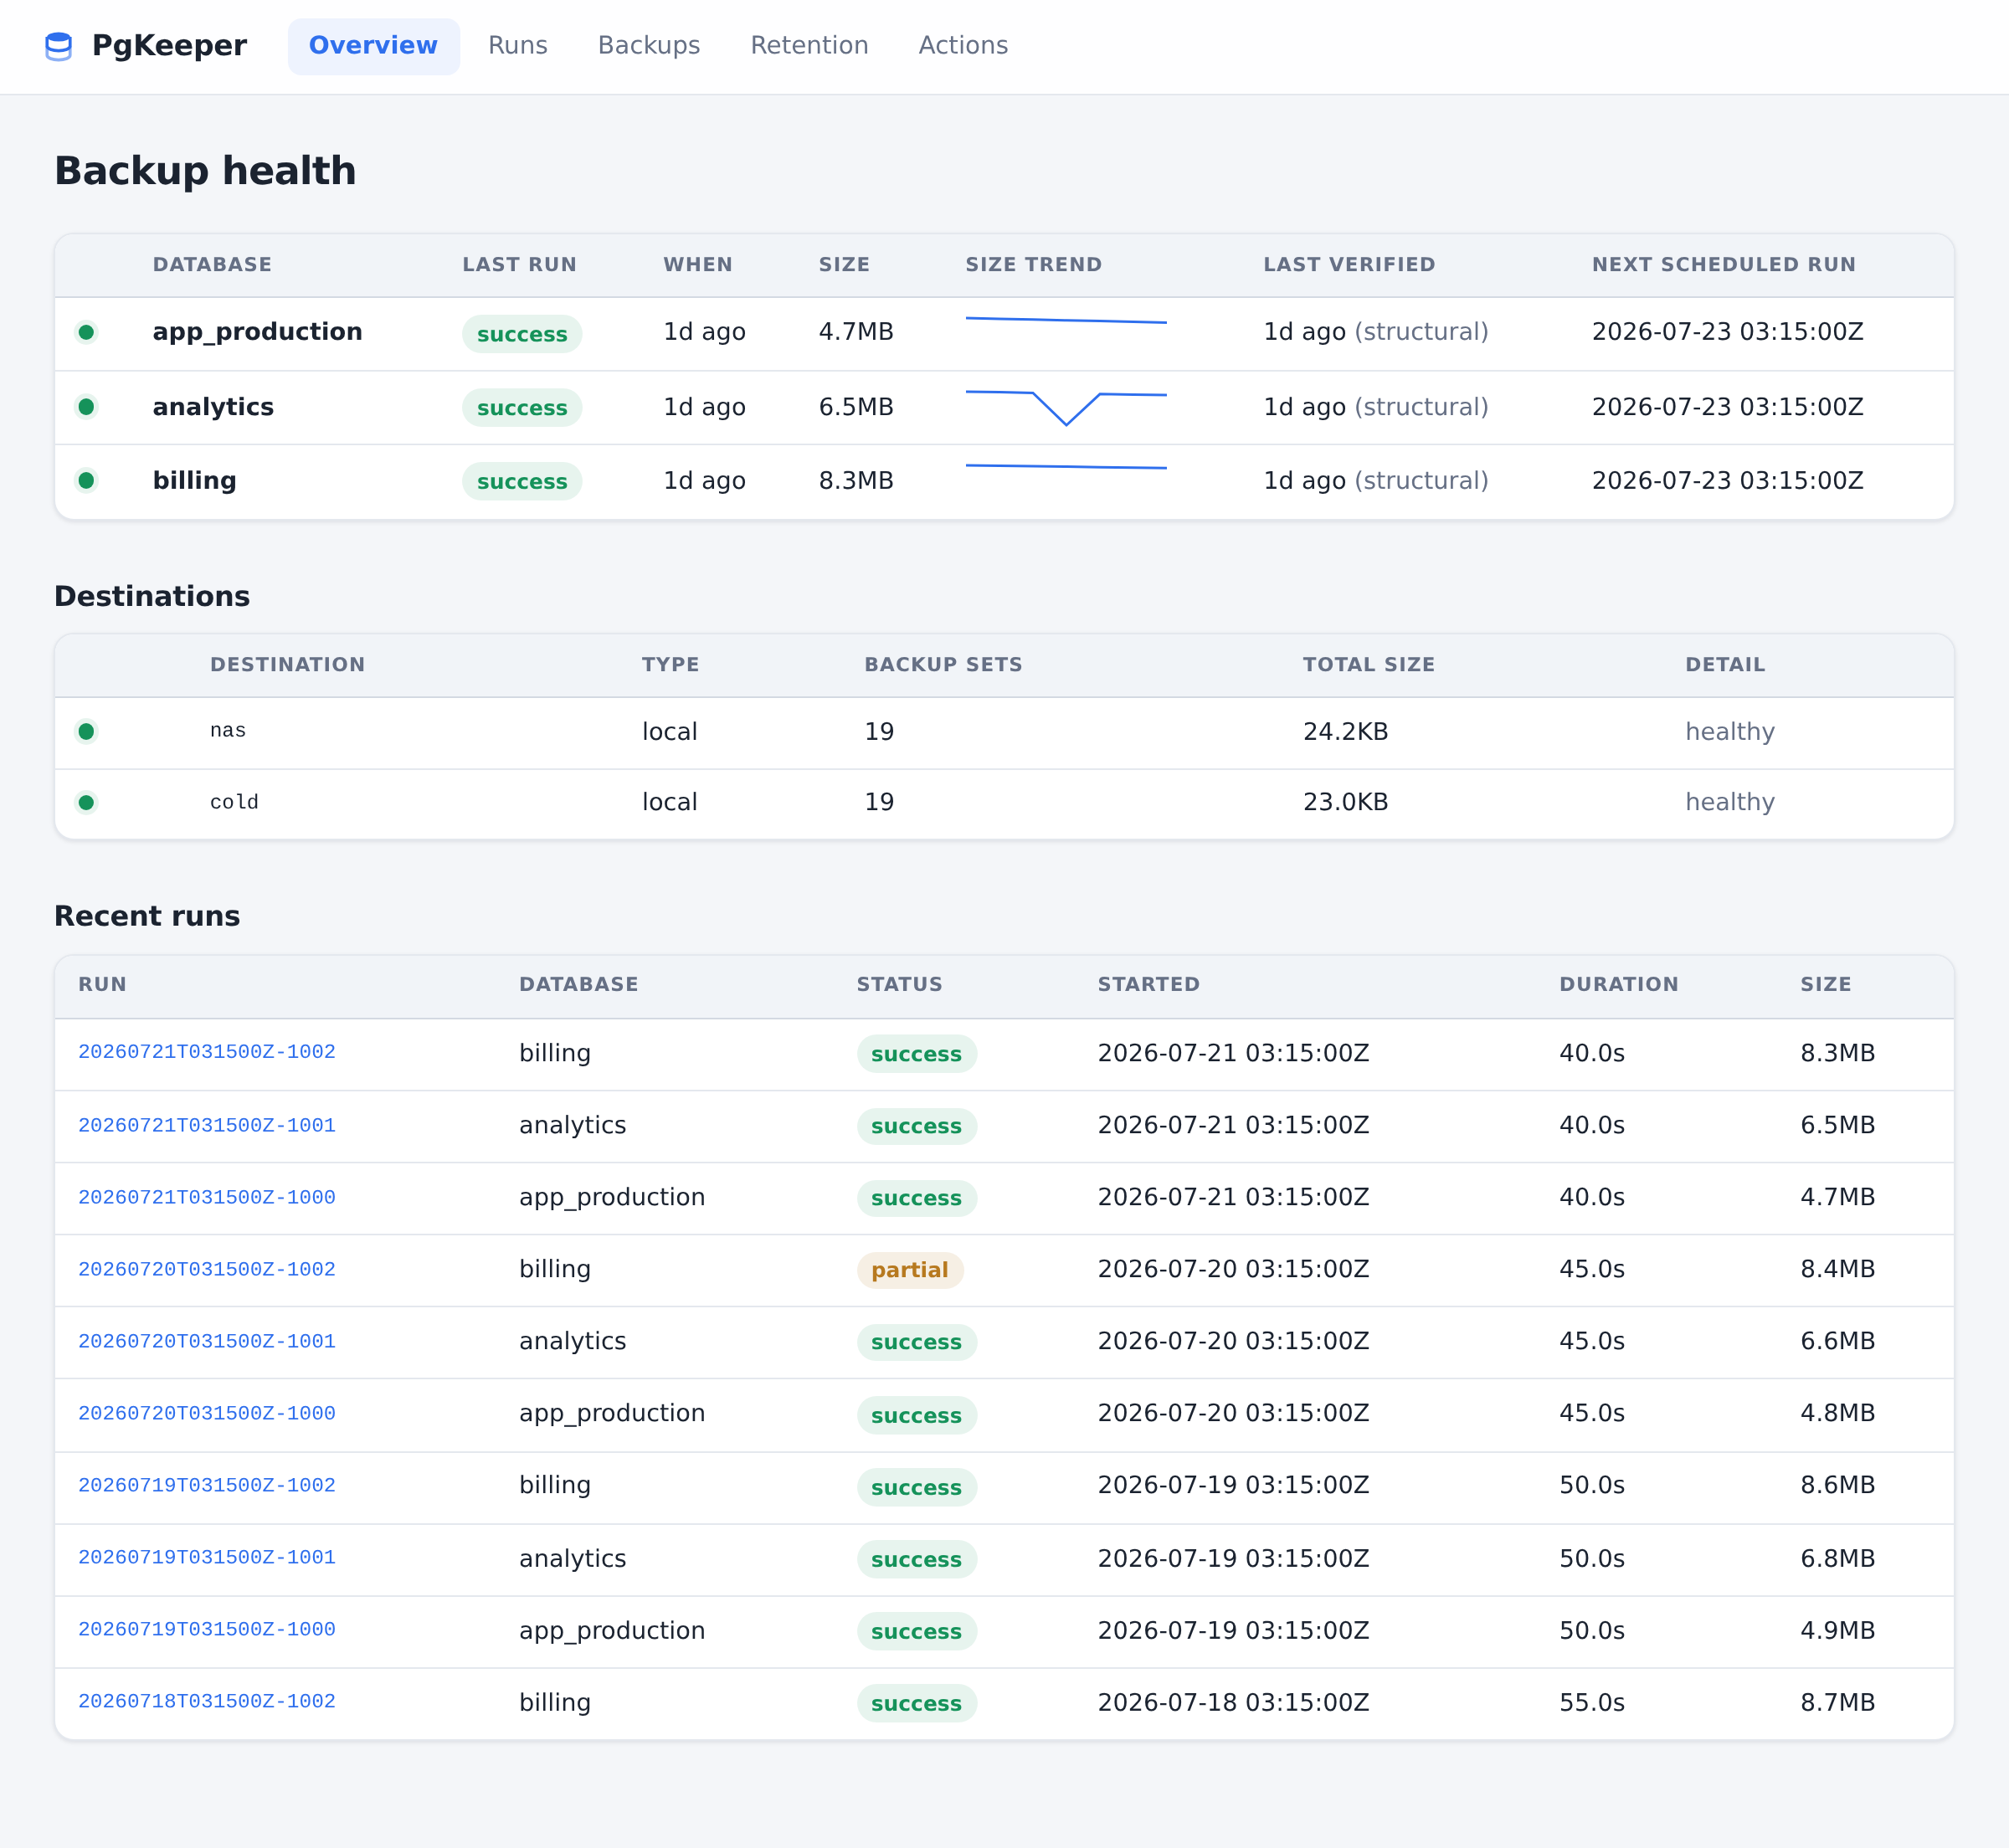
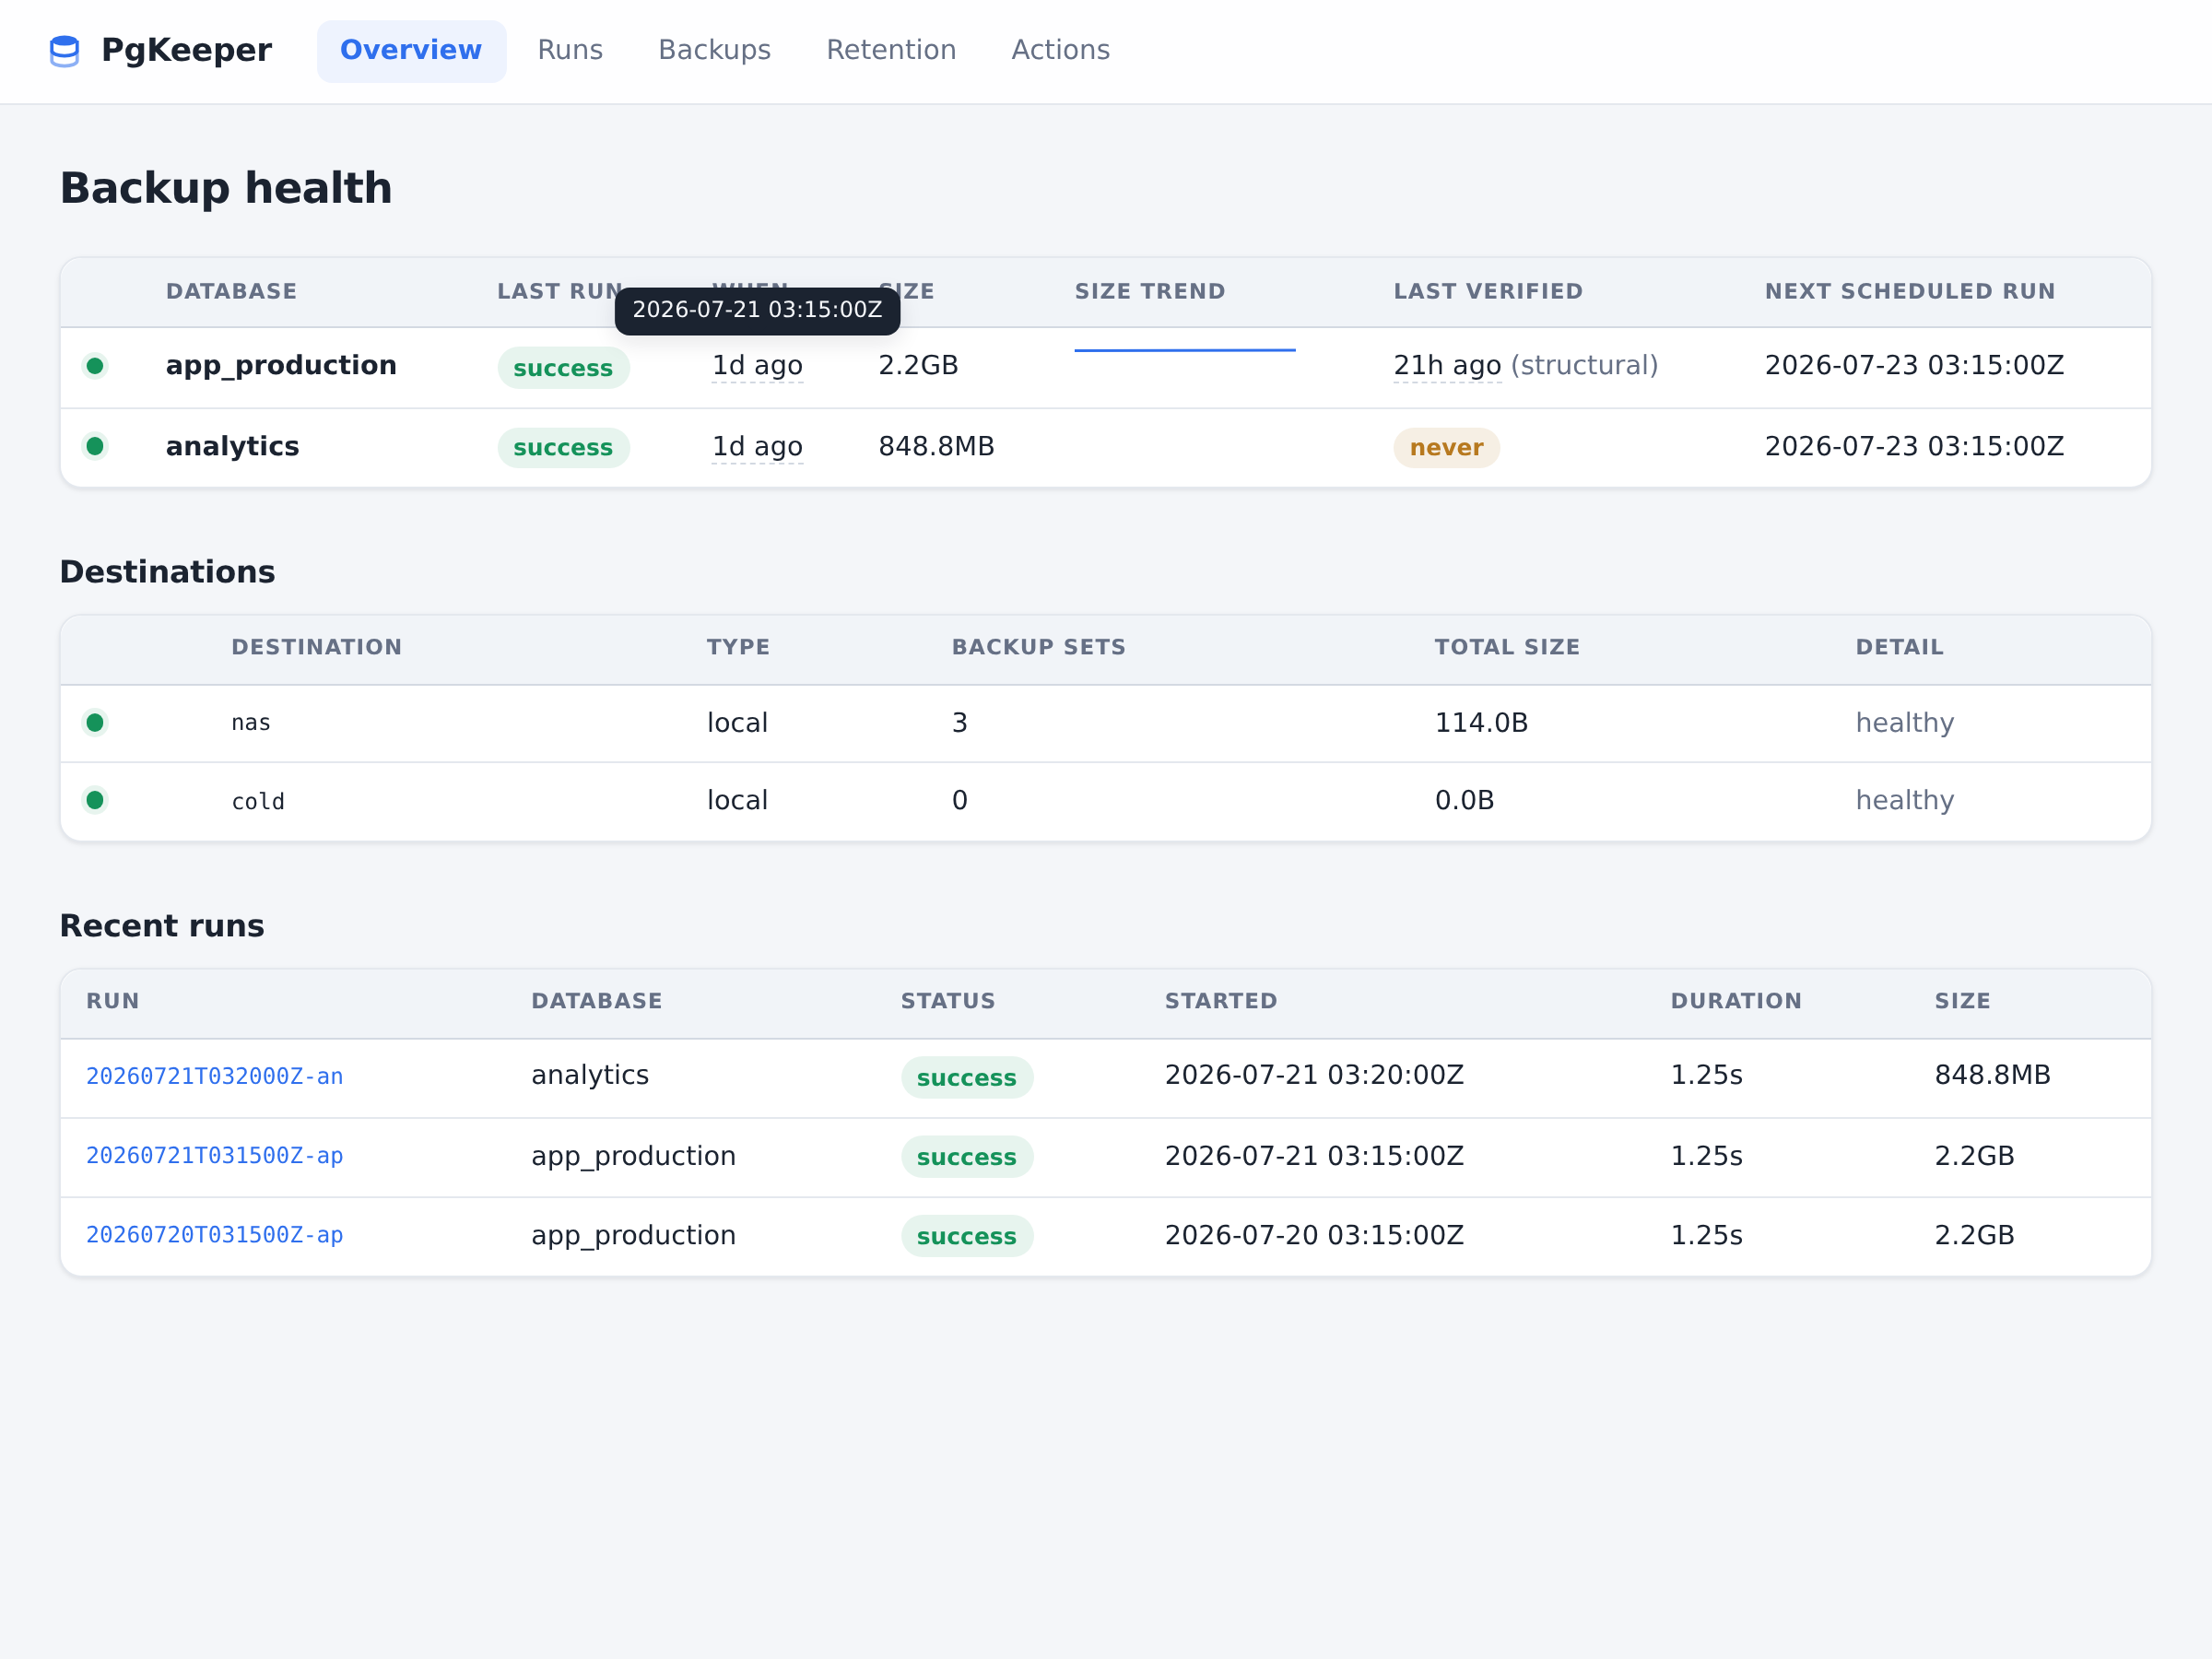
Brand the dashboard notices and tooltips consistently
Unify every status message behind one branded notice component and replace the
bare OS tooltips with styled popovers, so the dashboard reads as one system.

Notices: a new notice() helper renders a banner with a severity icon, a tinted
surface, and a left accent, in ok/warn/bad/info variants. The actions-page
flash now uses it — colored by a flash_kind() heuristic and carrying a
no-JavaScript dismiss link that just drops the ?msg param — and the
retention "nothing to prune" and backups destination-error notes render from
the same family instead of ad-hoc p.ok / p.bad banners.

Tooltips: a tip() helper plus a .tip component turn the native title=""
hints into styled, keyboard-reachable popovers (hover or focus, with an
aria-label for screen readers) showing the exact timestamp. Applied to the
overview, runs, and backups time cells and to the status light_dot, which now
carries a meaningful label ("Healthy" / "Needs attention" / ...). Tables round
their own corner cells instead of clipping with overflow:hidden, so a tooltip
is never sheared off at a table edge.

All new motion (notice entrance, tooltip fade, page rise) is gated behind
prefers-reduced-motion. Templates are now read as UTF-8 explicitly in
render_erb, so the non-ASCII glyphs compile correctly under a non-UTF-8 locale
(a latent bug the notice strings surfaced).

Regenerate the actions/overview/retention screenshots from the real pages.

Claude-Session: https://claude.ai/code/session_0124yNZtG2YxE3WAnDNyAuAZ

diff --git a/lib/pgkeeper/web/view_helpers.rb b/lib/pgkeeper/web/view_helpers.rb
@@ -54,9 +54,70 @@ module PgKeeper
         "?"
       end
 
-      # A colored status dot with an accessible label.
-      def light_dot(color)
-        %(<span class="dot dot-#{h(color)}" title="#{h(color)}"></span>)
+      # Default human labels for a traffic-light color, shown in the dot's
+      # tooltip so hovering explains what the color means.
+      LIGHT_LABELS = { "green" => "Healthy", "yellow" => "Needs attention", "red" => "Failing" }.freeze
+
+      # A colored status dot with a branded tooltip. +label+ overrides the
+      # default word for the color.
+      def light_dot(color, label = nil)
+        text = label || LIGHT_LABELS.fetch(color.to_s, color.to_s)
+        tip(%(<span class="dot dot-#{h(color)}"></span>), text)
+      end
+
+      # Wrap +inner+ (already-safe HTML) in a branded tooltip trigger showing
+      # +hint+ on hover/focus. Returns +inner+ unchanged when there's no hint.
+      # The trigger is focusable and carries an aria-label so the hint reaches
+      # keyboard and screen-reader users, not just a mouse hover.
+      def tip(inner, hint)
+        return inner.to_s if hint.nil? || hint.to_s.empty?
+
+        %(<span class="tip" tabindex="0" role="note" aria-label="#{h(hint)}" ) +
+          %(data-tip="#{h(hint)}">#{inner}</span>)
+      end
+
+      # Inline icons for the notice/flash banners, keyed by severity. Stroked
+      # with currentColor so each inherits its notice's accent.
+      NOTICE_ICONS = {
+        ok: %(<path d="m9 12 2 2 4-4"/><circle cx="12" cy="12" r="9"/>),
+        warn: %(<path d="M12 9v4M12 17h.01"/><path d="M10.3 4 2.6 18a1.5 1.5 0 0 0 1.3 2.2h16.2) +
+              %(a1.5 1.5 0 0 0 1.3-2.2L13.7 4a1.5 1.5 0 0 0-2.6 0Z"/>),
+        bad: %(<circle cx="12" cy="12" r="9"/><path d="m15 9-6 6M9 9l6 6"/>),
+        info: %(<circle cx="12" cy="12" r="9"/><path d="M12 8h.01M11 12h1v4h1"/>)
+      }.freeze
+
+      # A branded notification banner. +kind+ is :ok/:warn/:bad/:info; when
+      # +dismiss+ is a URL, a close control links there (clearing the flash
+      # without any JavaScript).
+      def notice(message, kind: :info, dismiss: nil)
+        kind = kind.to_sym
+        glyph = NOTICE_ICONS.fetch(kind, NOTICE_ICONS[:info])
+        icon = %(<span class="notice-icon"><svg viewBox="0 0 24 24" fill="none" stroke="currentColor" ) +
+               %(stroke-width="1.8" stroke-linecap="round" stroke-linejoin="round" aria-hidden="true">) +
+               %(#{glyph}</svg></span>)
+        body = %(<div class="notice-body">#{h(message)}</div>)
+        %(<div class="notice notice-#{kind}" role="status">#{icon}#{body}#{notice_close(dismiss)}</div>)
+      end
+
+      # The optional dismiss control — a plain link back to +url+ that drops the
+      # flash query param, so closing the banner needs no JavaScript.
+      CLOSE_ICON = %(<svg viewBox="0 0 24 24" fill="none" stroke="currentColor" stroke-width="2" ) +
+                   %(stroke-linecap="round" aria-hidden="true"><path d="M6 6l12 12M18 6 6 18"/></svg>)
+
+      def notice_close(url)
+        return "" if url.nil?
+
+        %(<a class="notice-close" href="#{h(url)}" aria-label="Dismiss">#{CLOSE_ICON}</a>)
+      end
+
+      # Classify a flash message so the banner picks a fitting color. Defensive:
+      # anything unrecognized reads as neutral info.
+      def flash_kind(message)
+        text = message.to_s.downcase
+        return :warn if text.match?(/nothing was started|required|failed|error|denied/)
+        return :ok if text.match?(/\bstarted\b|queued|dispatched|complete/)
+
+        :info
       end
 
       def status_class(status)

diff --git a/lib/pgkeeper/web/app.rb b/lib/pgkeeper/web/app.rb
@@ -254,7 +254,11 @@ module PgKeeper
       end
 
       def render_erb(name, assigns)
-        template = File.read(File.join(VIEWS, "#{name}.erb"))
+        # Read as UTF-8 explicitly: the templates contain non-ASCII glyphs (→, —,
+        # status icons), and ERB compiles them into Ruby source. Relying on the
+        # process's default external encoding would break rendering under a
+        # non-UTF-8 locale (e.g. LANG=C).
+        template = File.read(File.join(VIEWS, "#{name}.erb"), encoding: "UTF-8")
         ERB.new(template,
                 trim_mode: "-").result(ViewContext.new(assigns.merge(csrf_token: @csrf_token)).binding_for_erb)
       end

diff --git a/CHANGELOG.md b/CHANGELOG.md
@@ -93,6 +93,15 @@ All notable changes to PgKeeper. Versions map to the milestones in
   auto-refreshes while a job is running. Field names and the POST contract are
   unchanged, so the CSRF/confirm guards and the JSON API behave exactly as
   before.
+- **Unified notices and tooltips across the dashboard.** One branded banner
+  family now renders every status message — the actions-page flash (colored by
+  severity, with a no-JavaScript dismiss link) and the retention/backups page
+  notes — each with an icon, a tinted surface, and a left accent. The bare OS
+  `title=` tooltips became styled, keyboard-reachable popovers that show the
+  exact timestamp on hover or focus; tables round their own corners now instead
+  of clipping, so a tooltip is never sheared off at a table edge. All motion
+  respects `prefers-reduced-motion`. Also read view templates as UTF-8
+  explicitly, so the dashboard renders correctly under a non-UTF-8 locale.
 
 ### Added
 